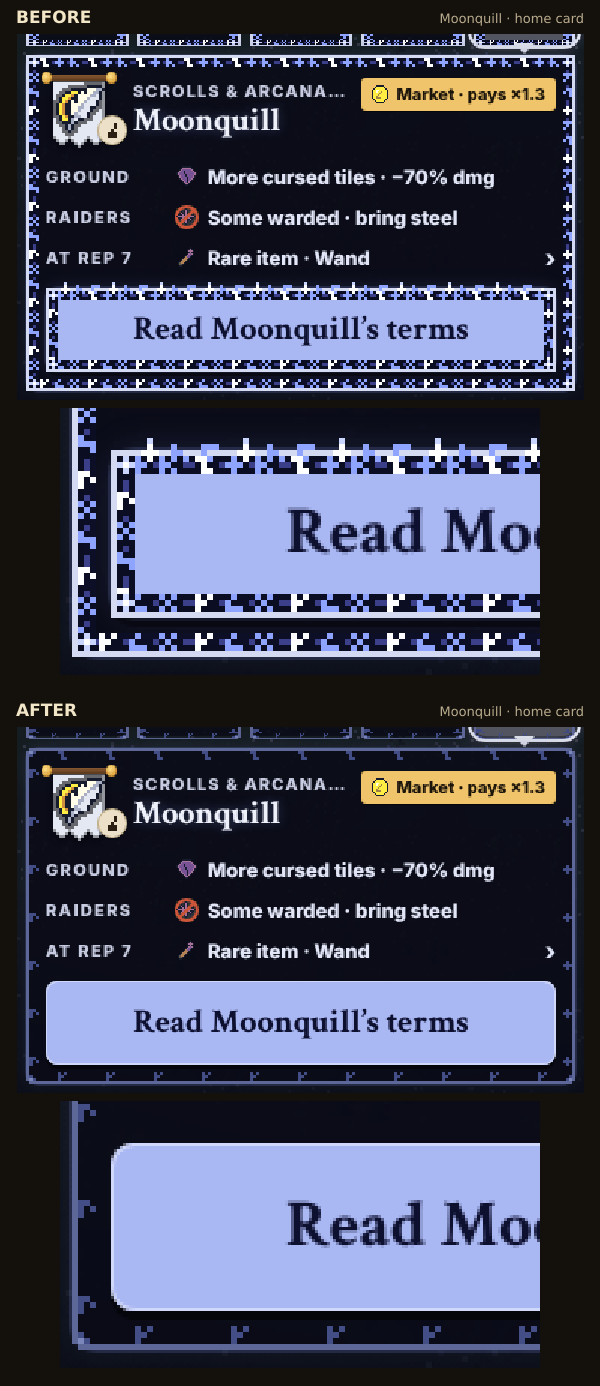
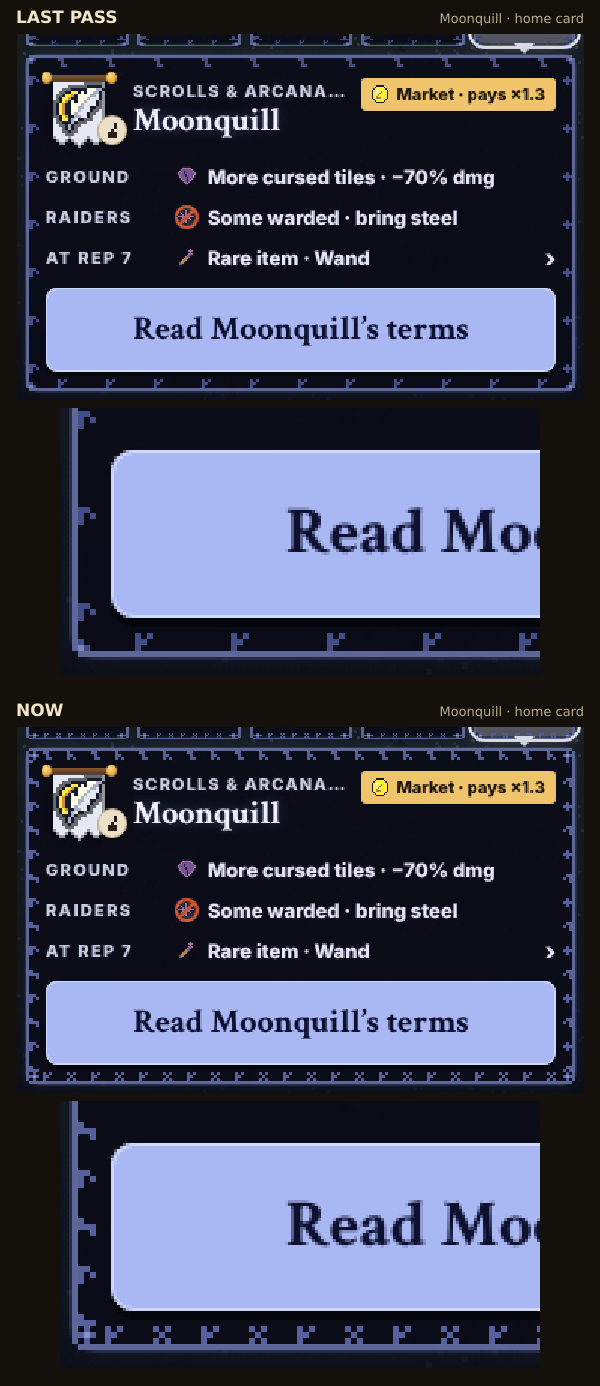
Ironvein, Easel House and Moonquill frames as present as the approved two
Board verdicts: Peppercorn and Rosethread GOOD (kept as they are); Ironvein's
hero pick 'the most minimal in our UI aesthetic'. Ironvein gets a two-tone
iron band lit on top, rivet heads, riveted corner plates and a forge glow in
each joint, and an iron bar with domed rivets on a lone CTA. Easel House gets
a two-pixel brush stroke (paint over its bristle shade, a drip); Moonquill two
clearer runes a tile and four-pointed corner stars. The weight test lets the
line be two pixels deep; luma caps unchanged. Cards refreshed, terms-metals
added.

Claude-Session: https://claude.ai/code/session_018uj2v7KuxpnPRQV4YJVgs7

diff --git a/src/ui/theme/themeArt.ts b/src/ui/theme/themeArt.ts
@@ -235,71 +235,129 @@ function fireCrest(f: number): Rows {
 }
 
 // ---------------------------------------------------------------------------
-// PAINT — Easel House: a thin brush stroke in three paints that swells into
-// scallops, a drip now and then
+// PAINT — Easel House: a confident brush stroke in three paints, each dab
+// with its bristle shade under it; a drip now and then
 // ---------------------------------------------------------------------------
-const PAINT: Palette = { p: '#6e5a96', q: '#46326e', o: '#84663e', t: '#40726c', s: '#8a5a72', d: '#2a1d3c' }
+/*
+ * The second frames pass (Oct 2026; the board: Peppercorn and Rosethread
+ * GOOD, Ironvein "the most minimal in our UI aesthetic"): every world as
+ * present as those two — a line and a rhythm of its own you can read at a
+ * glance — still one deep, still dim, still no lone pixel.
+ */
+const PAINT: Palette = {
+  // Each paint and its bristle shade.
+  p: '#6e5a96',
+  P: '#4c3d70',
+  o: '#84663e',
+  O: '#5c4628',
+  t: '#40726c',
+  T: '#2b4f4b',
+  s: '#8a5a72',
+  q: '#46326e',
+}
 function paintFrame(_f: number): Rows {
   return frame(
     (d, along, side) => {
       const s = sideN(side)
-      // Scallops: the stroke swells 1 → 2 px and back in the middle of each
-      // eight-pixel dab, every dab its own paint.
+      // Dabs eight pixels long, each its own paint: the paint on the outside,
+      // its bristle shade under it, parted where one dab meets the next (the
+      // stroke's scallops: inner bumps read as battlements, not paint).
       const a = along % 8
       const band = (Math.floor(along / 8) + s) % 3
-      const paint = band === 0 ? 'p' : band === 1 ? 'o' : 't'
+      const [paint, shade] = band === 0 ? ['p', 'P'] : band === 1 ? ['o', 'O'] : ['t', 'T']
       if (d === 0) return paint
-      if (d === 1 && a >= 3 && a <= 5) return paint
-      // A drip off the foot, once in a while.
-      if (side === 'bottom' && d === 1 && hash(along, 13) < 0.12) return 'q'
+      if (d === 1) return a === 0 || a === 7 ? null : shade
+      // A drip off the foot, once a tile, hanging from a dab's edge.
+      if (side === 'bottom' && (d === 2 || d === 3) && along === 6) return shade
       return null
     },
-    // A dab of paint one pixel in, a different paint across the diagonal.
-    (cx, cy, which) => quietCorner(which === 0 || which === 3 ? 'o' : 's', (x, y) => (x === 1 && y === 1 ? (which === 0 || which === 3 ? 's' : 'o') : null))(cx, cy),
+    // A dab of paint in each corner, a different paint across the diagonal.
+    (cx, cy, which) => {
+      const [paint, shade] = which === 0 || which === 3 ? ['o', 'O'] : ['s', 'q']
+      return quietCorner(paint, (x, y) => (x === 1 && y === 1 ? shade : (x === 2 && y === 1) || (x === 1 && y === 2) ? shade : null))(cx, cy)
+    },
   )
 }
-function paintStrip(f: number): Rows {
+function paintStrip(_f: number): Rows {
   const g = grid(STRIP_W, STRIP_H)
-  const paints = ['p', 'o', 't', 's']
-  // The bristles' line on the button's lip, a tuft of two or three on it.
+  // A brush stroke standing on the button's lip: a dab of each of two paints,
+  // its bristle shade under it (parted where the dabs meet), a scallop of
+  // paint swelling up in the middle of each.
   for (let x = 0; x < STRIP_W; x++) {
-    g[STRIP_H - 1][x] = 'p'
-    if (x === 1 || x === 2 || (x >= 9 && x <= 11)) g[STRIP_H - 2][x] = 'q'
-  }
-  // Two dabs of other paint sitting on it (on the bristles, never floating).
-  for (let k = 0; k < 2; k++) {
-    const x = 3 + k * 8 + Math.floor(hash(k, f, 21) * 3)
-    g[STRIP_H - 1][x] = g[STRIP_H - 1][x + 1] = paints[(k + 1) % paints.length]
+    const [paint, shade] = x < 8 ? ['p', 'P'] : ['t', 'T']
+    const a = x % 8
+    g[STRIP_H - 2][x] = a === 0 ? '.' : shade
+    g[STRIP_H - 3][x] = paint
+    if (a >= 2 && a <= 5) g[STRIP_H - 4][x] = paint
   }
   return rows(g)
 }
 
 // ---------------------------------------------------------------------------
-// FORGE — Ironvein: an iron line jointed into plates, a rivet on each, the
-// forge's glow in one joint a tile
+// FORGE — Ironvein: a two-tone iron band lit on its top edge, a rivet head
+// every eight pixels, a riveted bracket plate at each corner, the forge's
+// glow in each plate joint
 // ---------------------------------------------------------------------------
-const FORGE: Palette = { i: '#46526a', l: '#7f8ca2', d: '#222a36', m: '#8a4422', M: '#b4602c' }
+const FORGE: Palette = {
+  // The iron: its lit edge, its body, its shadow, a joint.
+  L: '#5c697e',
+  i: '#3e495c',
+  D: '#262e3b',
+  k: '#141922',
+  // A rivet head, lit, and its shadow side.
+  r: '#8a97ab',
+  R: '#66738a',
+  // The forge's glow in a joint.
+  m: '#8a4422',
+  M: '#b4602c',
+}
 function forgeFrame(_f: number): Rows {
   return frame(
-    (d, along) => {
-      const a = along % 8
-      if (d === 0) return a === 7 ? 'd' : 'i' // a plate joint every eight pixels
-      if (d === 1) {
-        // The forge's glow in one joint a tile, just inside the line.
-        if (along === 15) return 'm'
-        // A rivet head on each plate, a bump on the line: lit, then its body.
-        return a === 3 ? 'l' : a === 4 ? 'i' : null
-      }
+    (d, along, side) => {
+      // Lit from the top left, like the pack: the top and left bands catch the
+      // light on their outer edge, the bottom and right fall into shadow.
+      const lit = side === 'top' || side === 'left'
+      // A plate joint every sixteen pixels, glowing from the forge.
+      if (along === 15) return d === 0 ? 'k' : d === 1 ? 'm' : d === 2 ? 'M' : null
+      // A rivet head on the band every eight pixels: lit, then its shadow side.
+      if (d === 1 && along % 8 === 3) return 'r'
+      if (d === 1 && along % 8 === 4) return 'R'
+      if (d === 0) return lit ? 'L' : 'i'
+      if (d === 1) return lit ? 'i' : 'D'
       return null
     },
-    // A bolt one pixel in from each corner.
-    quietCorner('i', (cx, cy) => (cx === 1 && cy === 1 ? 'l' : null)),
+    // A riveted bracket plate at each corner, deeper than the band, its
+    // outer edge in the light of whichever side it turns.
+    (cx, cy, which) => {
+      if (cx === 0 && cy === 0) return null
+      const top = which < 2
+      const left = which === 0 || which === 2
+      if (cy === 0) return top ? 'L' : 'i'
+      if (cx === 0) return left ? 'L' : 'i'
+      if (cx === 1 && cy === 1) return 'r'
+      if ((cx === 2 && cy === 1) || (cx === 1 && cy === 2)) return 'R'
+      if (cx + cy === 5 || (cx === 3 && cy === 1) || (cx === 1 && cy === 3)) return 'D'
+      if (cx + cy <= 4) return 'i'
+      return null
+    },
   )
 }
 function forgeStrip(_f: number): Rows {
   const g = grid(STRIP_W, STRIP_H)
-  // A dim seam along the lip, one pixel, warmer for three at one joint a tile.
-  for (let x = 0; x < STRIP_W; x++) g[STRIP_H - 1][x] = x >= 10 && x <= 12 ? 'M' : 'm'
+  // An iron bar standing on the button's lip: its lit top, its body, a domed
+  // rivet every eight pixels, and the forge glowing in its one joint.
+  for (let x = 0; x < STRIP_W; x++) {
+    g[STRIP_H - 3][x] = 'L'
+    g[STRIP_H - 2][x] = 'i'
+  }
+  // Each rivet a round head two pixels wide, domed over the bar, lit on its left.
+  for (const x of [3, 11]) {
+    g[STRIP_H - 4][x] = g[STRIP_H - 4][x + 1] = 'R'
+    g[STRIP_H - 3][x] = 'r'
+    g[STRIP_H - 3][x + 1] = 'R'
+  }
+  g[STRIP_H - 3][15] = 'm'
+  g[STRIP_H - 2][15] = 'M'
   return rows(g)
 }
 
@@ -330,10 +388,10 @@ function silkStrip(_f: number): Rows {
 }
 
 // ---------------------------------------------------------------------------
-// ARCANE NIGHT — Moonquill: a silver line, one faint rune a tile inscribed
-// under it, a star in each corner
+// ARCANE NIGHT — Moonquill: a silver line, two runes a tile inscribed under
+// it, a four-pointed star in each corner
 // ---------------------------------------------------------------------------
-const ARCANE: Palette = { s: '#5e6898', g: '#434d86', G: '#7a86bc' }
+const ARCANE: Palette = { s: '#5e6898', g: '#56609c', G: '#8a96ca' }
 /** Five little runes, 3 × 3, for the frame and the CTA strip. */
 const RUNES_3: Rows[] = [
   ['s.s', '.s.', 's.s'],
@@ -346,24 +404,28 @@ function arcaneFrame(_f: number): Rows {
   return frame(
     (d, along, side) => {
       if (d === 0) return 's'
-      // One rune a tile (at 7), a pixel in from the line, dim.
-      const x = along - 7
-      if (d >= 1 && x >= 0 && x <= 2) {
-        const rune = RUNES_3[sideN(side) % RUNES_3.length]
+      // Two runes a tile (at 2 and 10), hung from the line, each its own.
+      for (const [k, at] of [
+        [0, 2],
+        [1, 10],
+      ] as const) {
+        const x = along - at
+        if (x < 0 || x > 2) continue
+        const rune = RUNES_3[(sideN(side) + k * 2) % RUNES_3.length]
         return rune[d - 1][x] === 's' ? 'g' : null
       }
       return null
     },
-    // A star one pixel in, its two short rays along the line.
-    quietCorner('s', (cx, cy) => (cx === 1 && cy === 1 ? 'G' : (cx === 2 && cy === 1) || (cx === 1 && cy === 2) ? 'g' : null)),
+    // A four-pointed star in each corner, its near rays touching the line.
+    quietCorner('s', (cx, cy) => (cx === 2 && cy === 2 ? 'G' : (cx === 2 && (cy === 1 || cy === 3)) || (cy === 2 && (cx === 1 || cx === 3)) ? 'g' : null)),
   )
 }
 function arcaneStrip(_f: number): Rows {
   const g = grid(STRIP_W, STRIP_H)
-  // Three runes in a row on the button's lip, the middle one lit.
+  // Three runes in a row standing on the button's lip, the middle one lit.
   for (let k = 0; k < 3; k++) {
     const rune = RUNES_3[(k + 2) % RUNES_3.length]
-    for (let y = 0; y < 3; y++) for (let x = 0; x < 3; x++) if (rune[y][x] === 's') g[3 + y][1 + k * 5 + x] = k === 1 ? 'G' : 'g'
+    for (let y = 0; y < 3; y++) for (let x = 0; x < 3; x++) if (rune[y][x] === 's') g[2 + y][1 + k * 5 + x] = k === 1 ? 'G' : 'g'
   }
   return rows(g)
 }

diff --git a/tests/themeWorlds.test.ts b/tests/themeWorlds.test.ts
@@ -96,13 +96,16 @@ describe('the frames: quiet, and one deep (the frames pass, Oct 2026)', () => {
     const f = worldArt(c).frame
     const pal = worldArt(c).palette
     const edge = f.slice(0, FRAME_T).map((r) => r.slice(FRAME_T, FRAME_SIZE - FRAME_T))
-    it(`${c}: one dominant line, sparse detail inside it, nothing bright`, () => {
+    it(`${c}: one dominant line, at most two pixels deep, sparse detail inside it, nothing bright`, () => {
       const lit = (d: number) => [...edge[d]].filter((ch) => ch !== '.').length / FRAME_SPAN
-      // The line runs (nearly) the whole edge; inside it, at most a third of the pixels.
+      // The line runs (nearly) the whole edge. Its second pixel may be a band
+      // of its own (Ironvein's two-tone iron, Easel House's bristle shade:
+      // the second frames pass, Oct 2026), but the inner half stays sparse,
+      // and inside the line at most half the pixels are set.
       expect(lit(0), c).toBeGreaterThanOrEqual(0.75)
-      for (let d = 1; d < FRAME_T; d++) expect(lit(d), `${c} depth ${d}`).toBeLessThanOrEqual(0.5)
+      for (let d = 2; d < FRAME_T; d++) expect(lit(d), `${c} depth ${d}`).toBeLessThanOrEqual(0.5)
       const inner = edge.slice(1).join('').replace(/\./g, '').length / (FRAME_SPAN * (FRAME_T - 1))
-      expect(inner, c).toBeLessThanOrEqual(1 / 3)
+      expect(inner, c).toBeLessThanOrEqual(1 / 2)
       // A dim palette: the line a shade or two off the panel, no accent pixel as bright as a label.
       for (const ch of edge[0]) if (ch !== '.') expect(lum(pal[ch]), `${c} line '${ch}'`).toBeLessThanOrEqual(0.42)
       for (const row of f) for (const ch of row) if (ch !== '.') expect(lum(pal[ch]), `${c} '${ch}'`).toBeLessThanOrEqual(0.6)

diff --git a/docs/DESIGN_SYSTEM.md b/docs/DESIGN_SYSTEM.md
@@ -98,9 +98,13 @@ Into the Breach move. Each world keeps its shape, at a lower volume.
 **The frames pass** (Oct 2026; the designer: "the border on the ui can be too
 intense, especially when it's doubled up at the bottom"): a world frame is a
 **quiet edge that says "this company"**, never a loud outline — one dim line
-a source pixel thick (2 CSS px), a shade or two off the panel (under 0.42
-luma), with sparse 1 px detail inside it (accents under 0.6) and a corner
-whose outer pixel is clear. And it is **one deep**: a framed part inside a
+at most two source pixels deep (a second tone may run under it: Ironvein's
+iron, Easel House's bristle shade), a shade or two off the panel (under 0.42
+luma), with a sparse rhythm of its own inside it (accents under 0.6) and a
+corner whose outer pixel is clear. Quiet is not minimal: the board approved
+Peppercorn's and Rosethread's frames, called the first Ironvein "the most
+minimal in our UI aesthetic", and every world now matches the approved two in
+presence. And it is **one deep**: a framed part inside a
 framed panel, or under the battle detail band's trim, wears no frame; a CTA
 never wears a 9-slice — alone, it has only its low strip on its lip; inside a
 framed panel (the home card, the Buy Company card) it is a plain button, with
@@ -110,10 +114,10 @@ Before → after: `docs/ui-audit-2026-10/frames-calm/`.
 | World | Frame (`themeArt.ts`, 4 px at the sheet's double, its own corner; still, quiet) | Ambient (`fxWorlds.ts`) | Press burst (on the CTA's face) | Switch-in (350 ms) |
 |---|---|---|---|---|
 | Peppercorn — fire | A dim charred line, burnt through in places, a two-pixel ember crack a tile and a coal at each corner; low, dull flame tongues on the card's top (its crest) | A few small embers (1–2 px, no white heart) rising slowly beside the focused road and at the foot; a low flame line along the dock's top over a faint heat glow | A few flames up the CTA's face, a few embers off the press | A faint warmth off the floor |
-| Easel House — paint | A thin stroke in three paints that swells into small scallops, a drip now and then, a dab at each corner | Flecks drifting, now and then a small splat that dries (never on the focused road), faint washes | An inked splat at the CTA's nearer end, a drip, a few droplets | A faint lilac stroke |
-| Ironvein — forge | An iron line jointed into plates, a rivet on each, one ember-lit joint a tile, a bolt at each corner | Three anvils along the dock's top, a few sparks in low slow arcs, ash drifting | A molten flash along both CTA seams, a handful of sparks | A faint glow round the strike |
+| Easel House — paint | A two-pixel brush stroke in three paints, each dab its paint over its bristle shade and parted from the next, a drip now and then, a dab at each corner | Flecks drifting, now and then a small splat that dries (never on the focused road), faint washes | An inked splat at the CTA's nearer end, a drip, a few droplets | A faint lilac stroke |
+| Ironvein — forge | A two-tone iron band lit on its top edge, a rivet head every 16 CSS px, a riveted bracket plate at each corner, the forge glowing in each plate joint; on a lone CTA, an iron bar with two domed rivets | Three anvils along the dock's top, a few sparks in low slow arcs, ash drifting | A molten flash along both CTA seams, a handful of sparks | A faint glow round the strike |
 | Rosethread — silk | A satin line with one sheen pixel a tile, a running stitch inside it, a rose bud at each corner | Rose petals tumbling slowly; two faint ribbons across the map, a still stitch and a slow sheen | A running stitch along the CTA's foot, a few petals | A faint ribbon |
-| Moonquill — arcane night | A silver line, one faint rune a tile under it, a star at each corner | A crescent moon and its still beam, stars twinkling slowly, runes drifting up | Sparkles and an inked rune at the CTA's nearer end | A faint silver sky |
+| Moonquill — arcane night | A silver line, two runes a tile hung under it, a four-pointed star at each corner | A crescent moon and its still beam, stars twinkling slowly, runes drifting up | Sparkles and an inked rune at the CTA's nearer end | A faint silver sky |
 
 Rules the worlds keep: **every world reads in one still, at a glance, in
 greyscale** (each has its own shape — a flame line, flecks and splats, anvils,

diff --git a/docs/DESIGN_REVIEW.md b/docs/DESIGN_REVIEW.md
@@ -4716,3 +4716,22 @@ The salt was picked from 5,000 so that in the first twelve seconds no two tics s
 - Hask's company colour (the oxblood apron) is smaller than his teal skin. Here the race wins over the company.
 - Saffra's band is gold on the field and red on the dock.
 - The field figures' shading is still flatter than the pack's.
+
+### 2026-10-18 — the world frames, present again (second frames pass)
+
+The board's verdicts on the quiet frames: Peppercorn's and Rosethread's home cards GOOD, kept exactly as they were. The Ironvein hero pick got a FIX: "This one was the most minimal in our UI aesthetic, consider a better styling for this company". The quiet pass had overshot for the worlds whose identity lived in their detail. The target was every world as present as the two approved ones, still one deep, no doubling, no busy sparkle. No gameplay, number or RNG draw changed.
+
+**What changed** (`themeArt.ts`; Peppercorn's and Rosethread's art untouched).
+- **Ironvein.** A two-tone iron band, lit on its top-left edges and shadowed on the bottom-right. It has a rivet head every 16 CSS px, a riveted bracket plate at each corner, and the forge glowing in each plate joint (every 32 CSS px). A lone CTA stands on an iron bar with two domed rivets and a glowing joint. This covers the home card, the dock, the hero pick and the terms (modes, asks).
+- **Easel House.** A two-pixel brush stroke: each dab is its paint over its bristle shade, parted where the dabs meet, with a drip off the foot. The CTA strip is the same stroke with a scallop on each dab.
+- **Moonquill.** Two clearer runes a tile hang under the silver line, and a four-pointed star sits at each corner. The strip's runes are lifted to stand on the lip.
+- **Test cap.** `tests/themeWorlds.test.ts` lets the line be two pixels deep: depth 1 is no longer capped, depths 2–3 stay ≤ 0.5 each, and the inner share goes from a third to a half. That cap was what blocked a two-tone iron band. The luma caps (line under 0.42, accents under 0.6) are unchanged.
+
+**Rounds**, each against the two approved cards.
+1. Ironvein now reads riveted, as present as Rosethread's stitch. But Easel's inner scallop bumps read as battlements, not paint.
+2. The scallops left the frame; the stroke's shade and partings carry the brush. Ironvein's strip rivets read as ruler ticks.
+3. The rivets are now domed two-pixel heads. Phone and desk: home, terms and pick for all five. No nesting, `home-stability` passes, and each world reads at a glance beside the approved two.
+
+**Left.** At some sizes `border-image-repeat: repeat` lands a band rivet right beside a corner plate's rivet, because tile phase is set by the box. Moonquill's band of runes is the busiest of the five, though dim.
+
+**Cards:** `docs/ui-audit-2026-10/frames-calm/` has `home-metals`, `pick-metals`, a new `terms-metals`, `home-art` and `home-scrolls` (LAST PASS over NOW). `home-spice` and `home-silk` are unchanged.

diff --git a/CLAUDE.md b/CLAUDE.md
@@ -321,13 +321,17 @@ result. Append a short note to the review log when you're done.
   have fire effects"): each company theme is a PLACE, in pixels, all under
   `:root[data-co-theme]` (the neutral house look has none). The art is pixel
   rows in `src/ui/theme/themeArt.ts` (per world: a 4 px 9-slice frame that
-  is QUIET — one dim line a pixel thick, a shade or two off the panel, with
-  sparse 1 px detail and a corner whose outer pixel is clear: Peppercorn a
-  charred line with a few embers, Easel House a thin three-paint stroke
-  with small scallops, Ironvein an iron line with rivets and one ember
-  joint a tile, Rosethread satin with a running stitch, Moonquill a silver
-  line with one faint rune a tile — a low CTA strip, and Peppercorn's flame
-  crest on the card; each ONE still image), rasterised once into CSS
+  is QUIET but present — a dim line at most two pixels deep, a shade or two
+  off the panel, with a sparse rhythm of its own and a corner whose outer
+  pixel is clear: Peppercorn a charred line with a few embers, Easel House
+  a two-pixel brush stroke (each dab its paint over its bristle shade, a
+  drip), Ironvein a two-tone iron band lit on top with rivet heads,
+  riveted corner plates and a forge glow in each joint, Rosethread satin
+  with a running stitch, Moonquill a silver line with two runes a tile and
+  a four-pointed star at each corner — a low CTA strip (Ironvein's an iron
+  bar with domed rivets), and Peppercorn's flame crest on the card; each
+  ONE still image; the board approved Peppercorn's and Rosethread's as the
+  bar the others match), rasterised once into CSS
   variables by `themeArtDom.ts` and laid on by `src/styles/worlds.css`
   (`border-image`: changes pixels, never boxes). The frames pass (Oct 2026;
   the designer: "the border on the ui can be too intense, especially when
